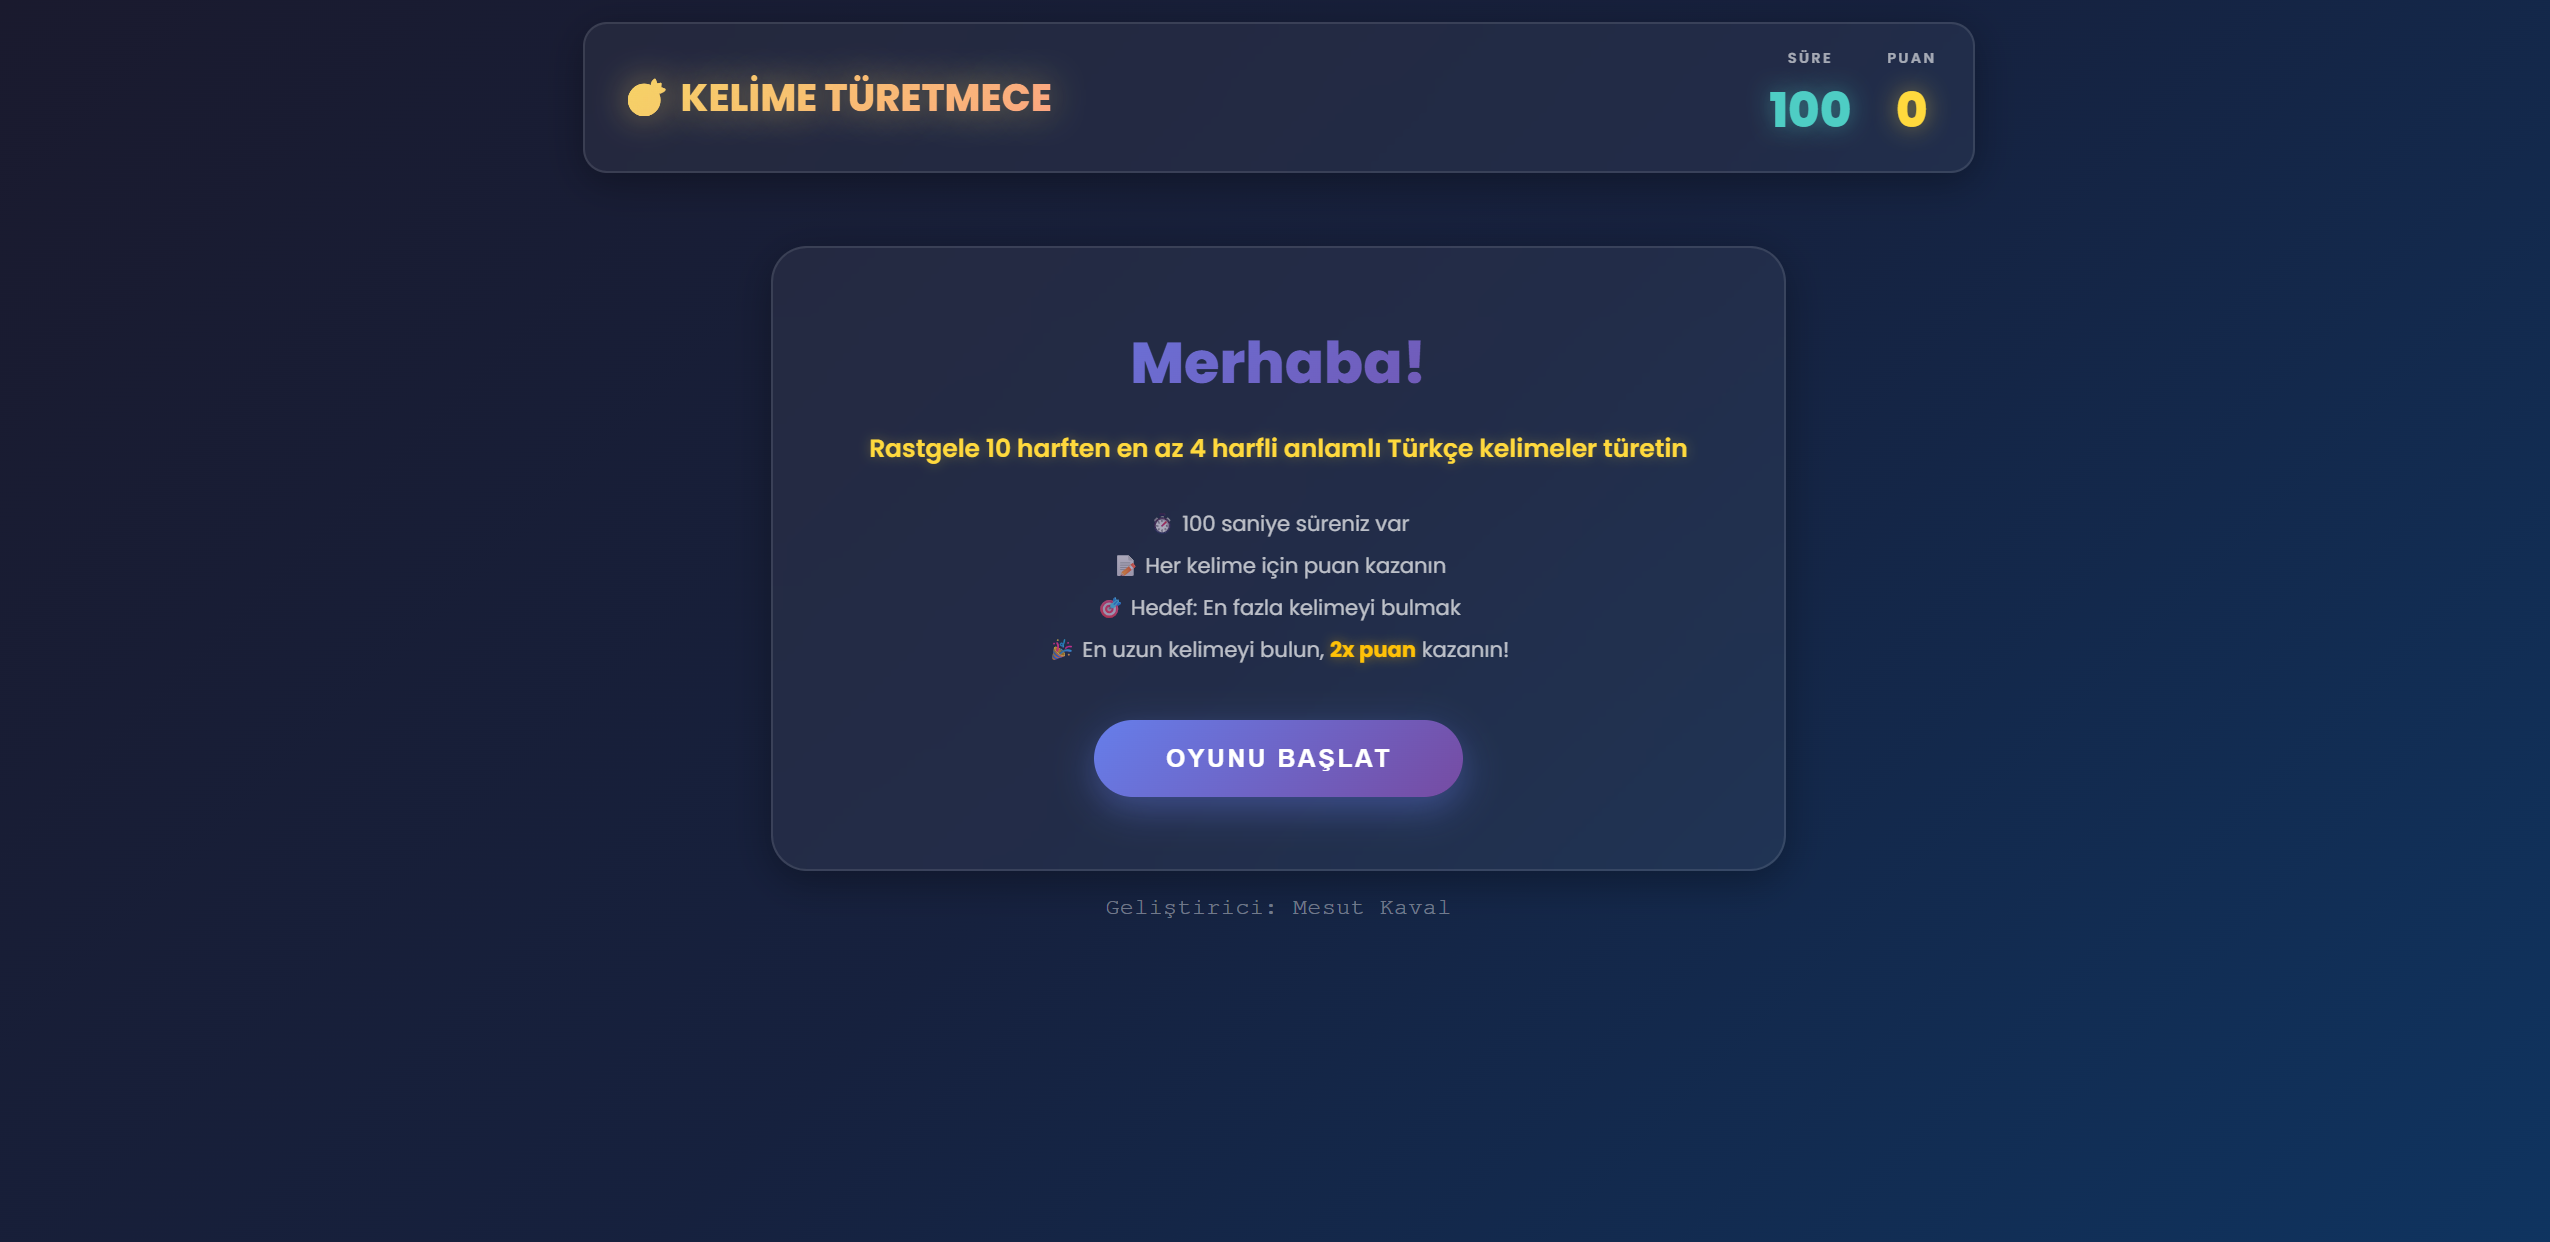
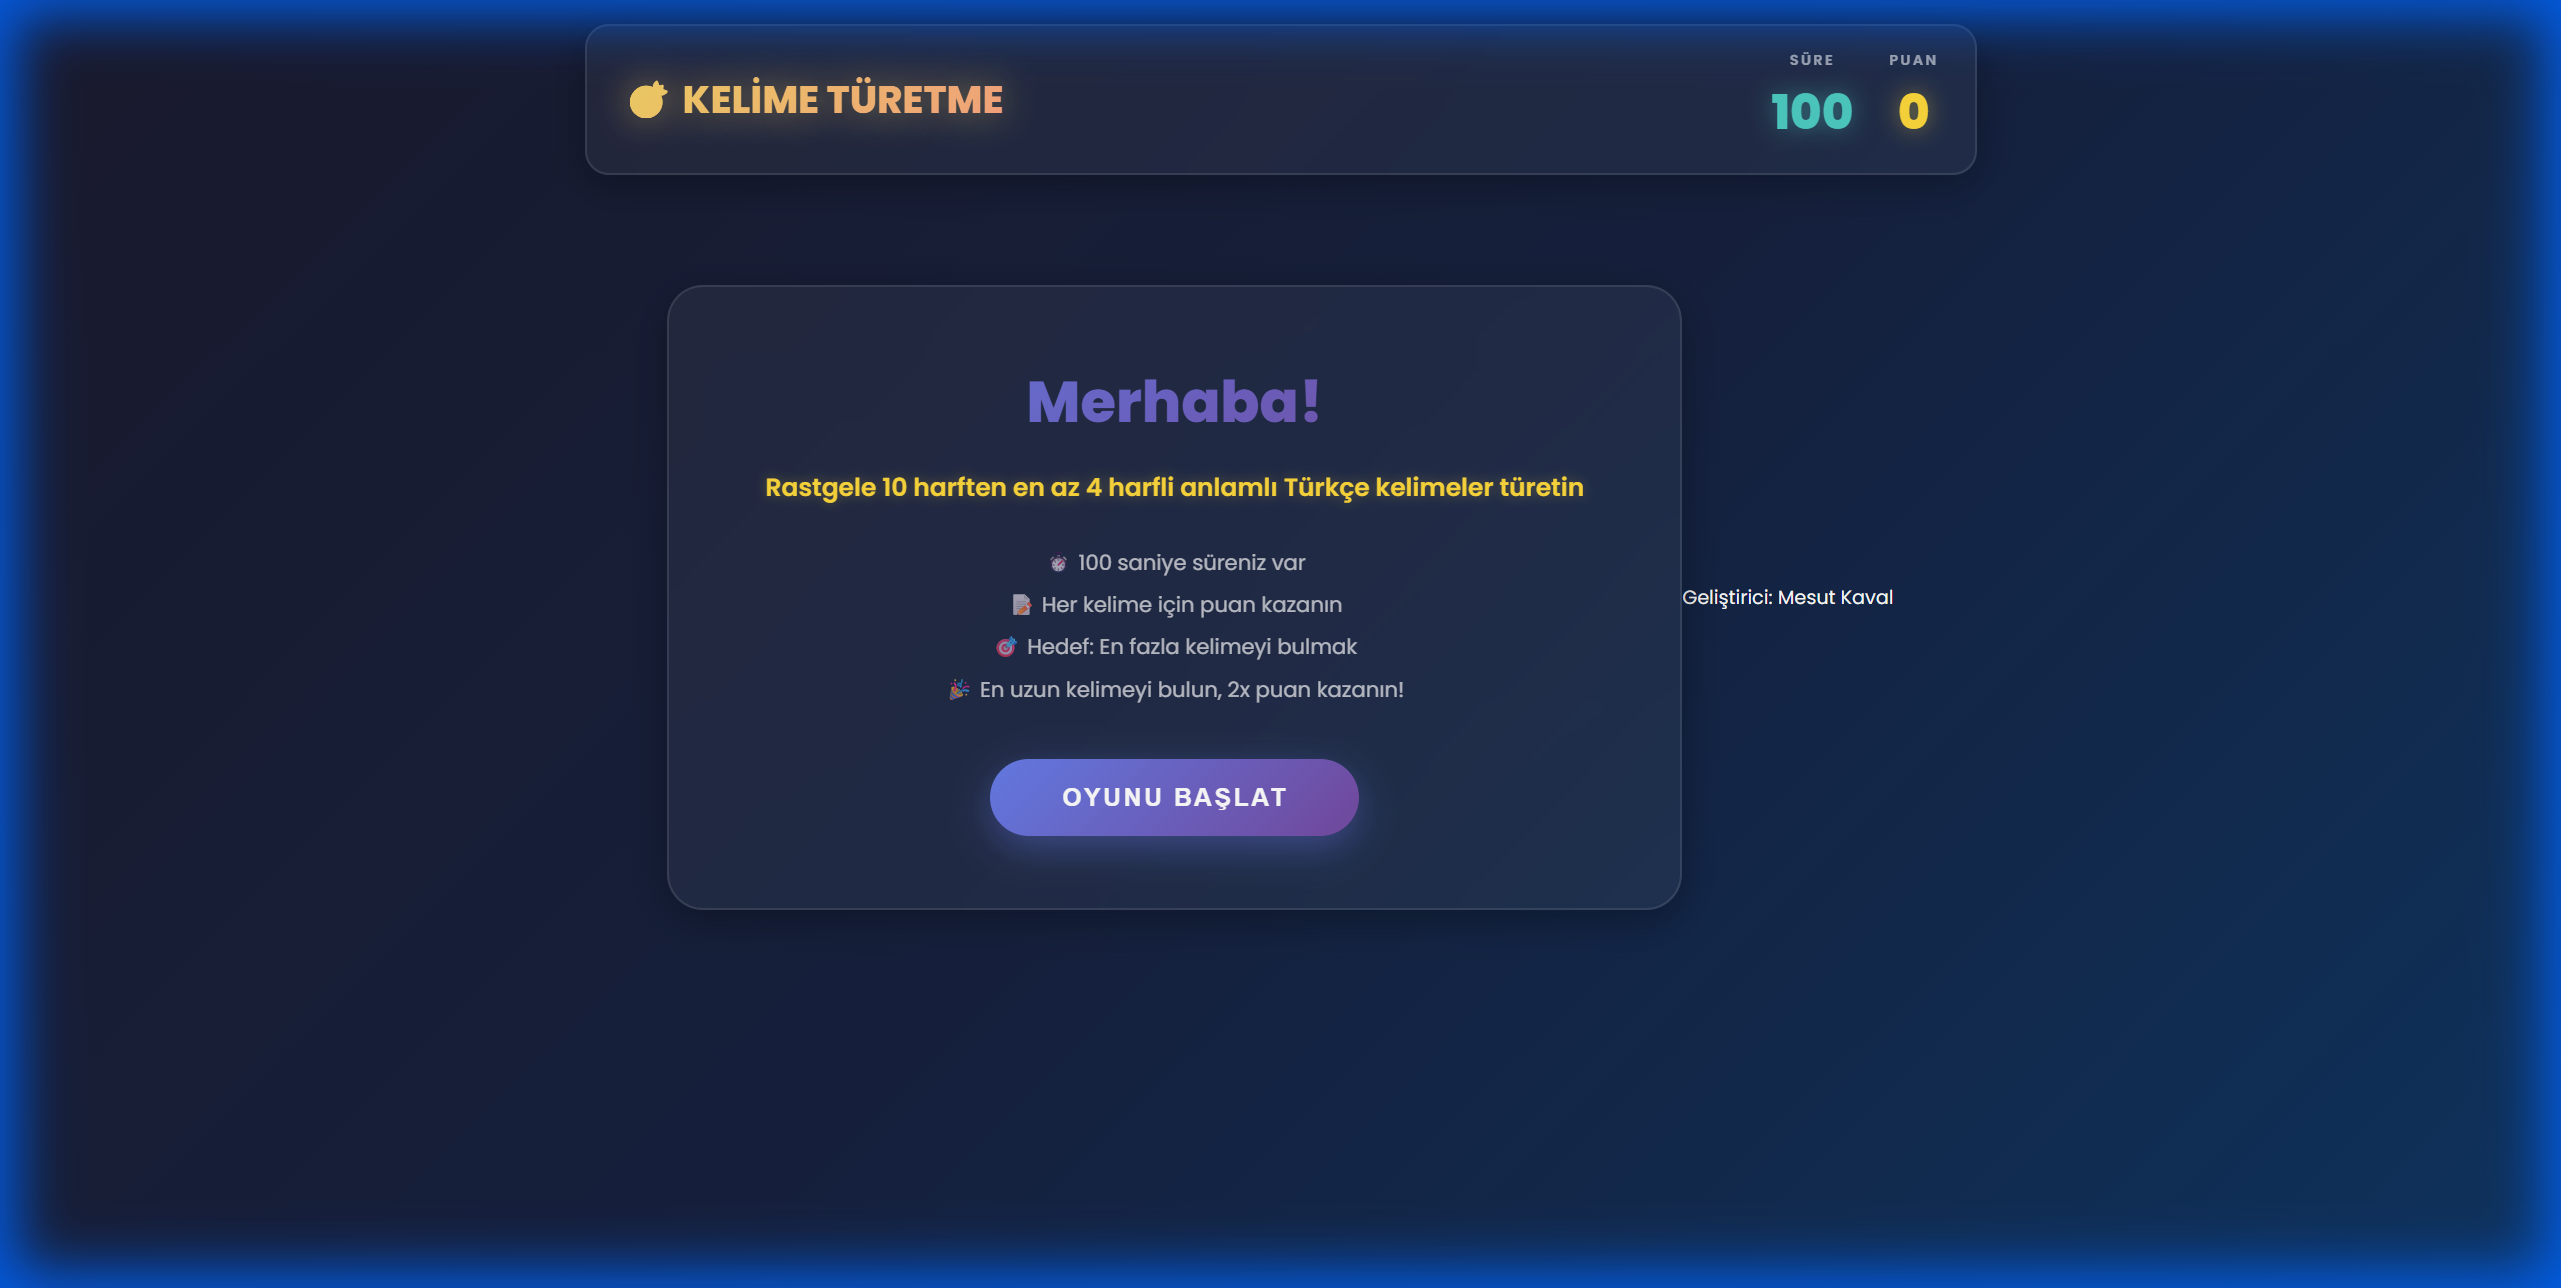
Ana başlık ve screenshot güncellendi: TÜRETME

diff --git a/index.html b/index.html
@@ -17,7 +17,7 @@
         <!-- Header Section -->
         <header class="game-header">
             <div class="logo">
-                <h1>🎯 KELİME TÜRETMECE</h1>
+                <h1>🎯 KELİME TÜRETME</h1>
             </div>
             <div class="stats">
                 <div class="timer-container">
